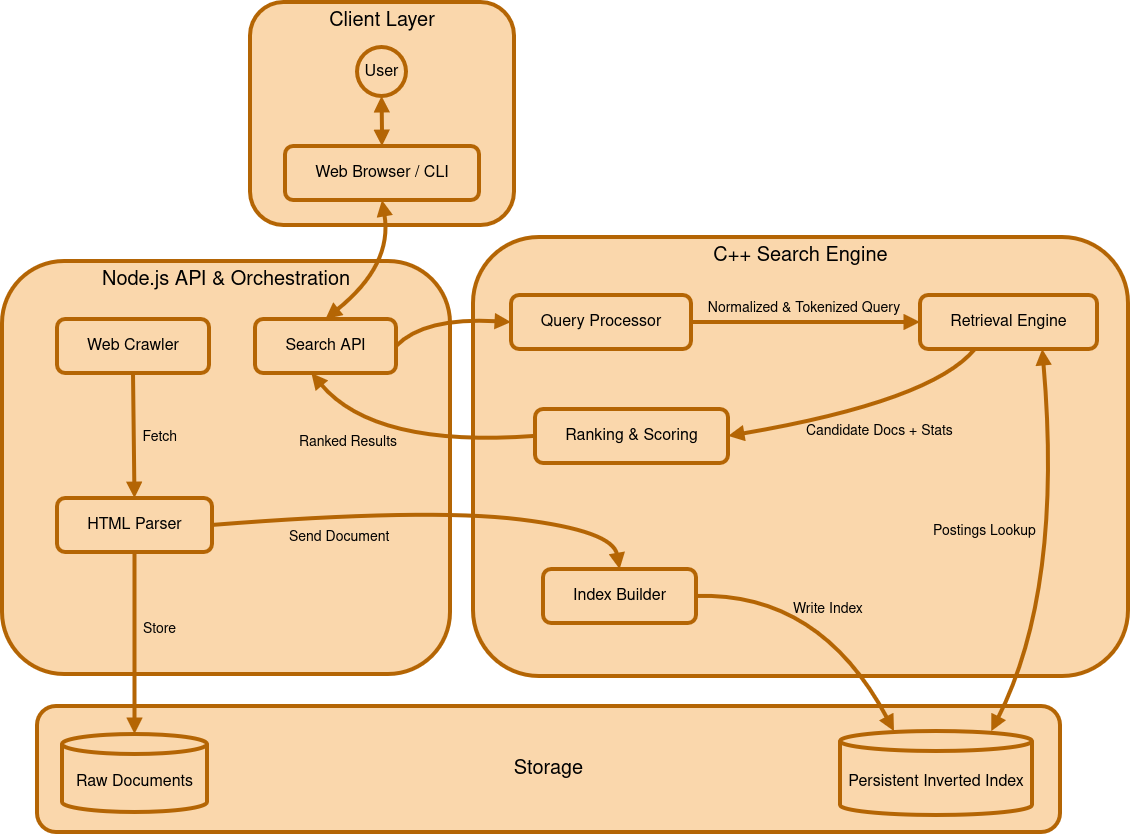
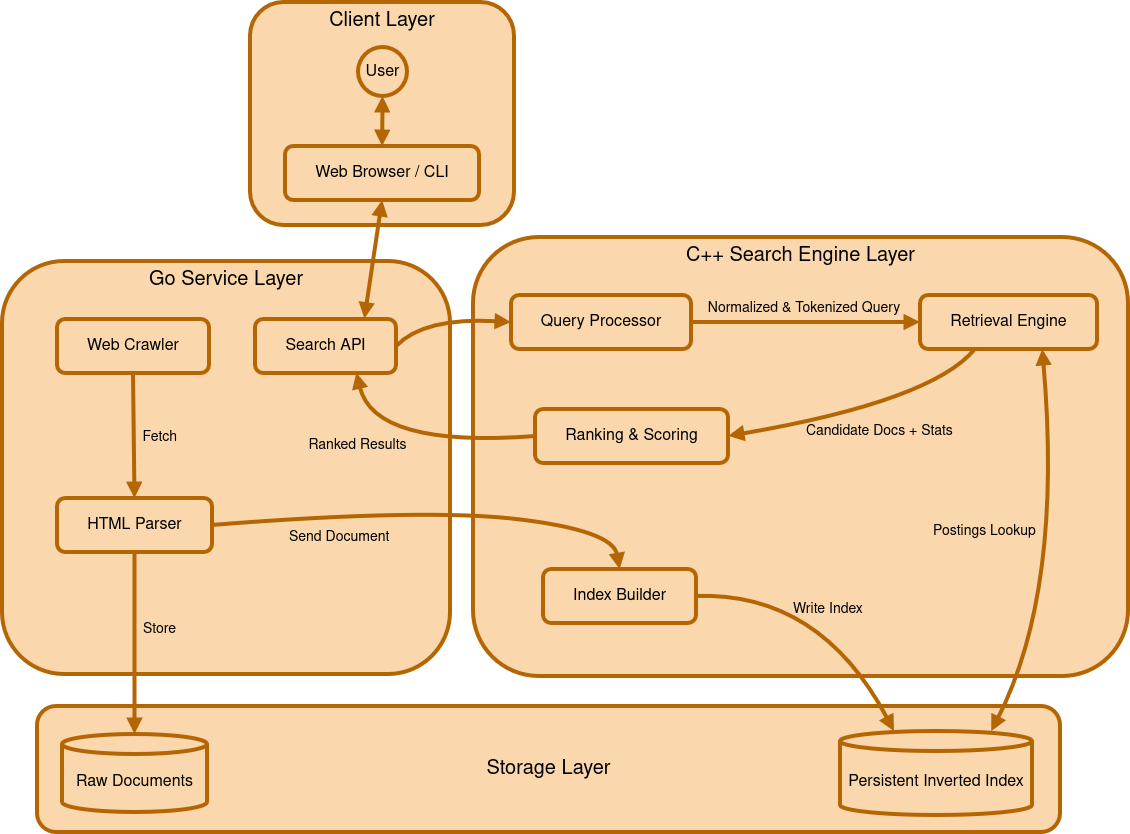
docs: update documentation to reflect the decision to migrate the service layer to Go

diff --git a/README.md b/README.md
@@ -1,6 +1,6 @@
 # SeptCrawler
 
-This project is a search engine for retrieving learning resources (documentation, references, tutorials, and discussion forums). I'm writing the search engine's core from scratch in C++, with Node.js for the API, crawler & parser. The project is designed to crawl and index learning resources, allowing users to search across them through a focused interface without having them polluted by entertainment-related results.
+This project is a search engine for retrieving learning resources (documentation, references, tutorials, and discussion forums). I'm writing the search engine's core from scratch in C++, while the Go Service Layer (Search API, web crawler, HTML parser, and service coordination) is planned to be implemented in Go. The system is designed to crawl and index learning resources, allowing users to search across them through a focused interface without having results polluted by entertainment-related content.
 
 > [!IMPORTANT]  
 > **Project Status: In Active Development Phase**  
@@ -24,17 +24,10 @@ Along the way, my goal is to make something that could be useful for learners an
 
 ## Technology Choices
 
-The decision of using a combination of C++ and Node.js comes from the need to separate the system into performance-critical components and orchestration components.  
-The search engine core (including query processing, indexing, retrieval, and ranking) is to be implemented in C++ because these components rely heavily on efficient data structures, memory management, and low-level control.  
-Node.js is used for the web-facing and coordination layer, including the crawler, HTML parser, and search API, where networking, asynchronous operations, and ecosystem support are more important than raw performance.  
-This separation keeps the architecture modular while allowing each component to use technologies suited to its responsibilities.
+I chose C++ and Go to keep the search engine core separate from the backend service layer.
 
-> _"But Saptaparno, can you really say you're making this **from scratch** if you're using Node.js for the API layer?"_  
-> Well, hear me out...  
-> When I say _from scratch_, I'm referring to the **search engine itself**. Not every supporting piece.  
-> The core of SeptCrawler, including the inverted index, indexing pipeline, query processing, retrieval engine, ranking pipeline, is being designed and implemented by me from the ground up in C++. Node.js is for writing the supporting components.  
-> My goal with this project is to learn how search engines work internally. That means spending my time building the search engine, not rebuilding the supporting components.  
-> That doesn't mean those supporting components aren't interesting to me. Quite the opposite. I do want to build things like HTTP servers, parsers, and networking software from scratch as well, but I see those as projects with their own learning goals rather than things to bundle into this one. Hence, I eventually plan to make those separately for my learning (and enjoyment).
+- **C++ Search Engine Core:** The core search engine components (index builder, query processor, retrieval engine, and ranker) are being designed and built from scratch in C++ because it gives me full control over memory and data structures, which are central to the search engine's implementation.
+- **Go Service Layer:** Go is selected for the Search API, web crawler, HTML parser, service coordination, network I/O, and client request routing. Go is well suited for the service layer because the crawler and API are network-heavy components, and Go's concurrency model makes it a natural choice for handling many requests and crawling multiple pages at once.
 
 ---
 
@@ -47,9 +40,9 @@ There are two main pipelines:
 
 The system is split into 3 layers:
 
-- **C++ layer:** Core of the search engine
-- **Node.js layer:** API + orchestration
-- **Storage layer:** Documents + inverted index
+- **C++ Search Engine Core Layer:** Inverted index construction, query normalization/tokenization, candidate document retrieval, and ranking.
+- **Go Service Layer:** Search API, web crawler, HTML parser, service coordination, network I/O, and client request routing.
+- **Storage Layer:** Raw document storage and persistent inverted index storage.
 
 ---
 

diff --git a/docs/design-details/hld.md b/docs/design-details/hld.md
@@ -10,13 +10,13 @@ The system is divided into 2 independent pipelines: an offline ingestion pipelin
 
 - **User <-> (Web Browser / CLI):** Sends search queries and receives ranked results.
 
-### Node.js API & Orchestration Layer
+### Go Service Layer
 
-> This layer is responsible for coordination, not heavy computation.
+> This layer handles network I/O, service coordination, and client request routing.
 
-- **Search API:** Entry point for all queries. Sends queries to the C++ engine and returns final results at the end.
-- **Web Crawler:** Responsible for fetching target resources during ingestion.
-- **HTML Parser:** Extracts usable text and metadata from HTML.
+- **Search API:** Entry point for all search requests. Handles client request routing to the C++ search engine and returns ranked results.
+- **Web Crawler:** Responsible for fetching target web pages during the offline ingestion phase.
+- **HTML Parser:** Extracts structured text and metadata from fetched web pages for indexing.
 
 ### C++ Search Engine Layer
 

diff --git a/docs/design-details/lld.md b/docs/design-details/lld.md
@@ -139,8 +139,8 @@ Execution flow: `User -> Search API -> Query Processor -> Retrieval Engine (<-> 
 
 ## HTML Parser
 
-- Extracting text
-- Extracting useful metadata
+- Parsing HTML documents and extracting clean text
+- Extracting useful metadata (title, headings, domain metadata)
 - Producing clean documents for indexing
 - Writing clean documents to Raw Documents storage
 
